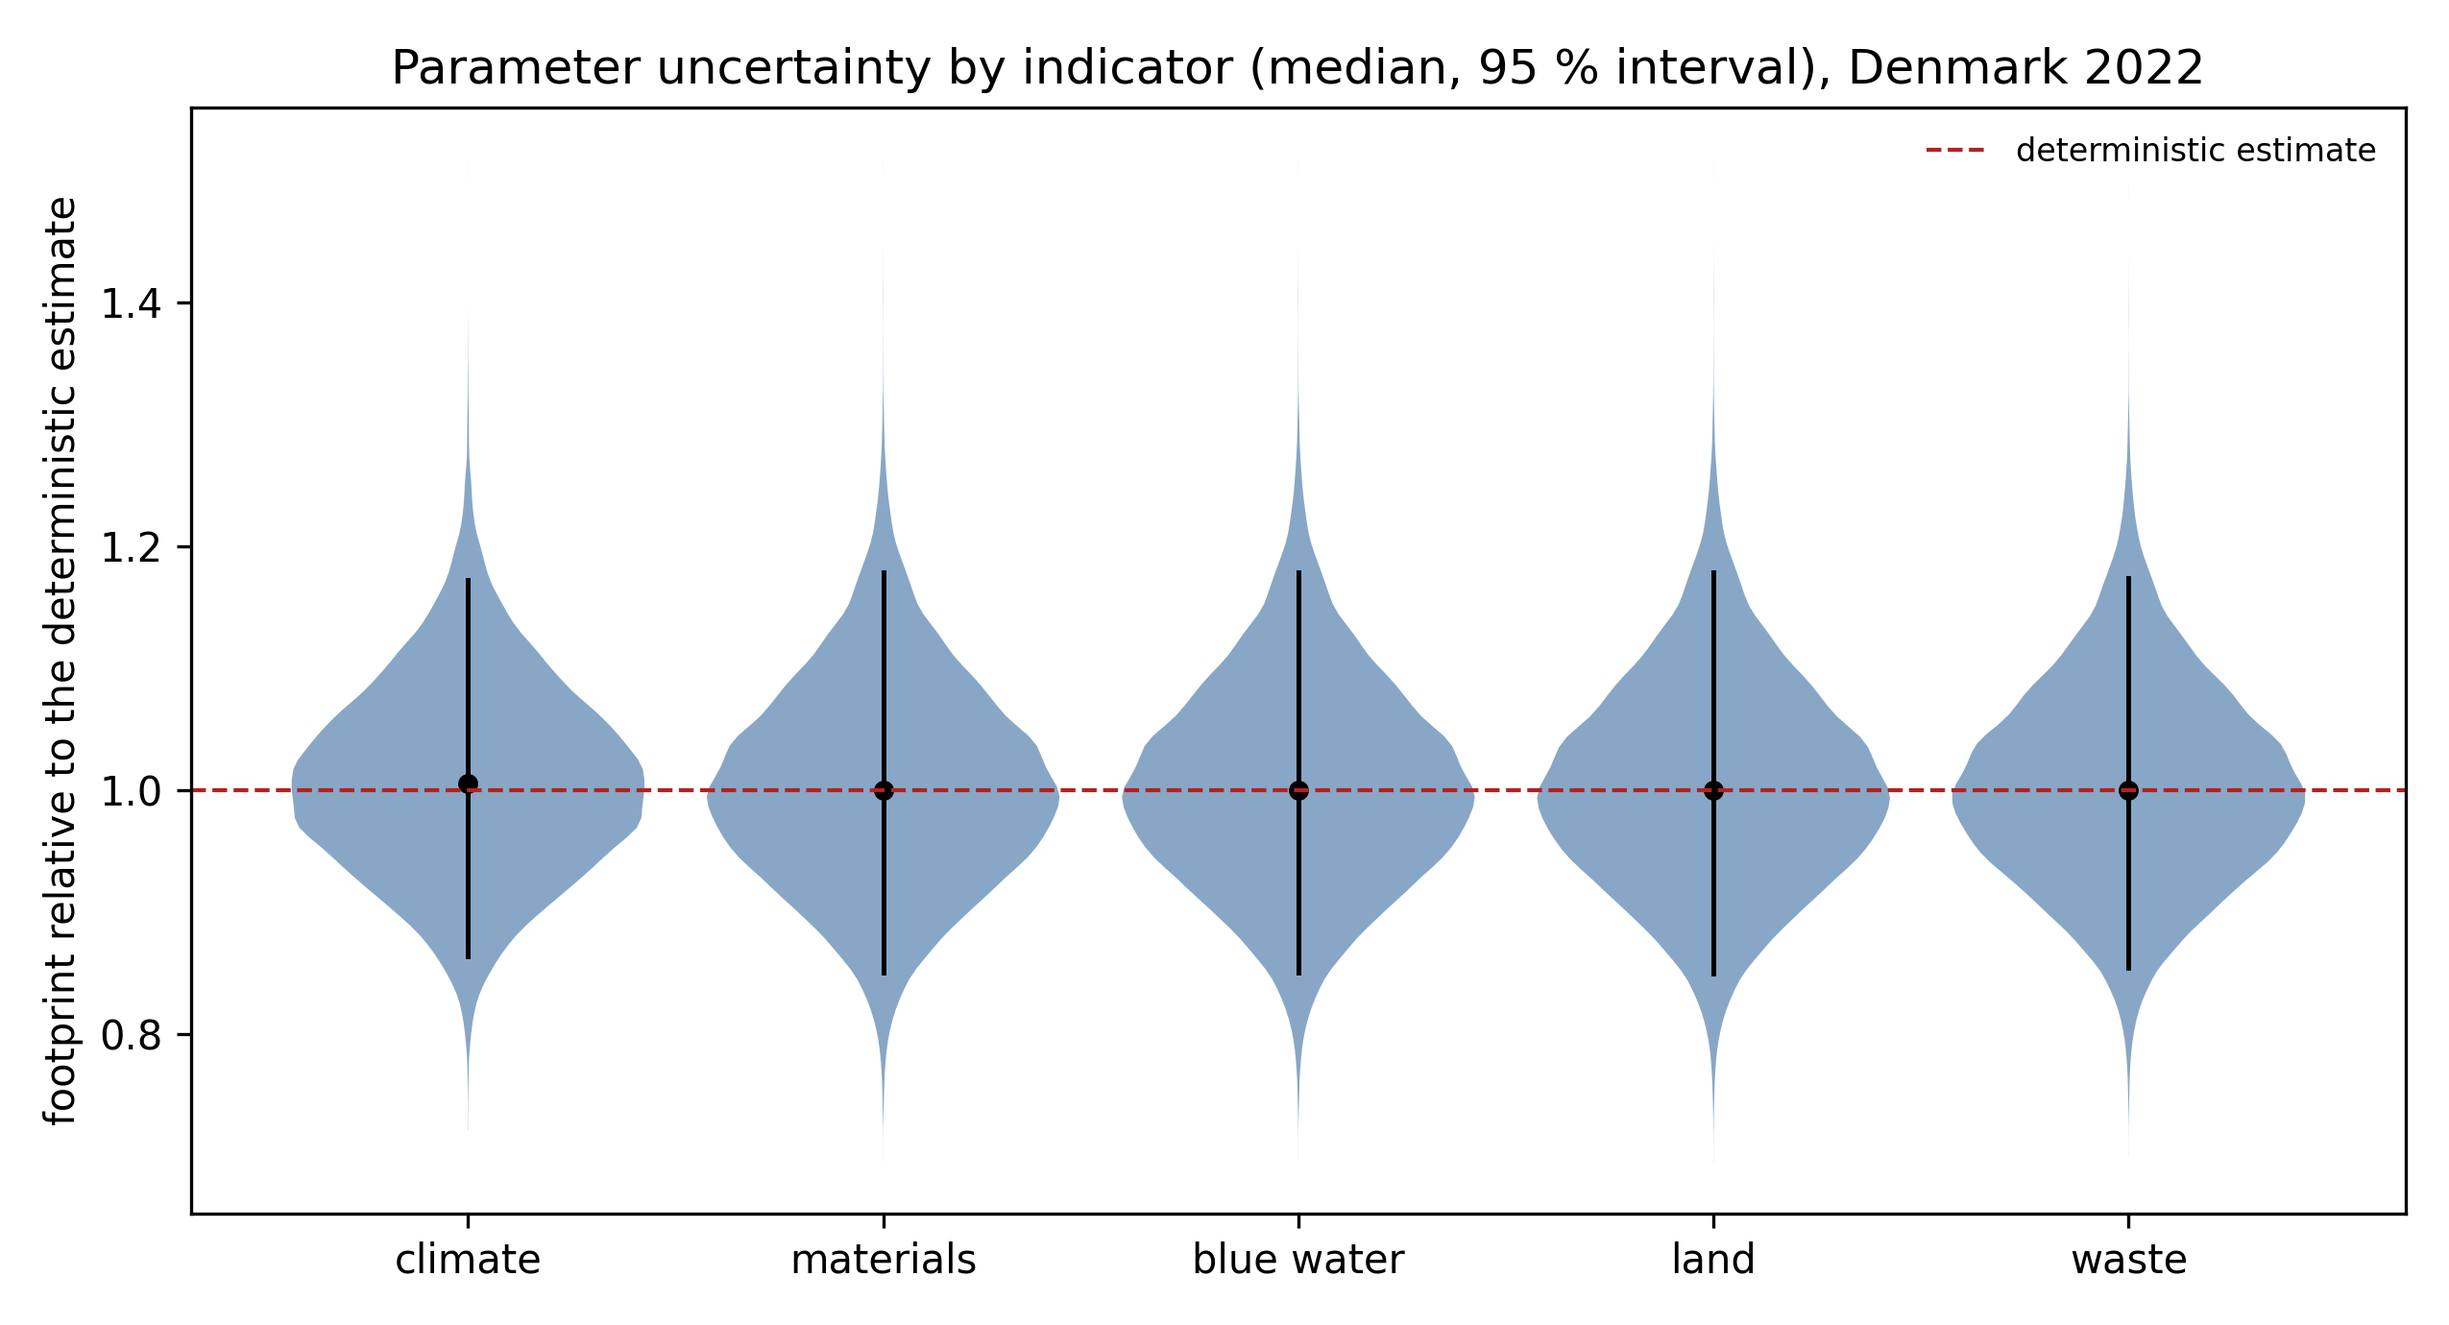
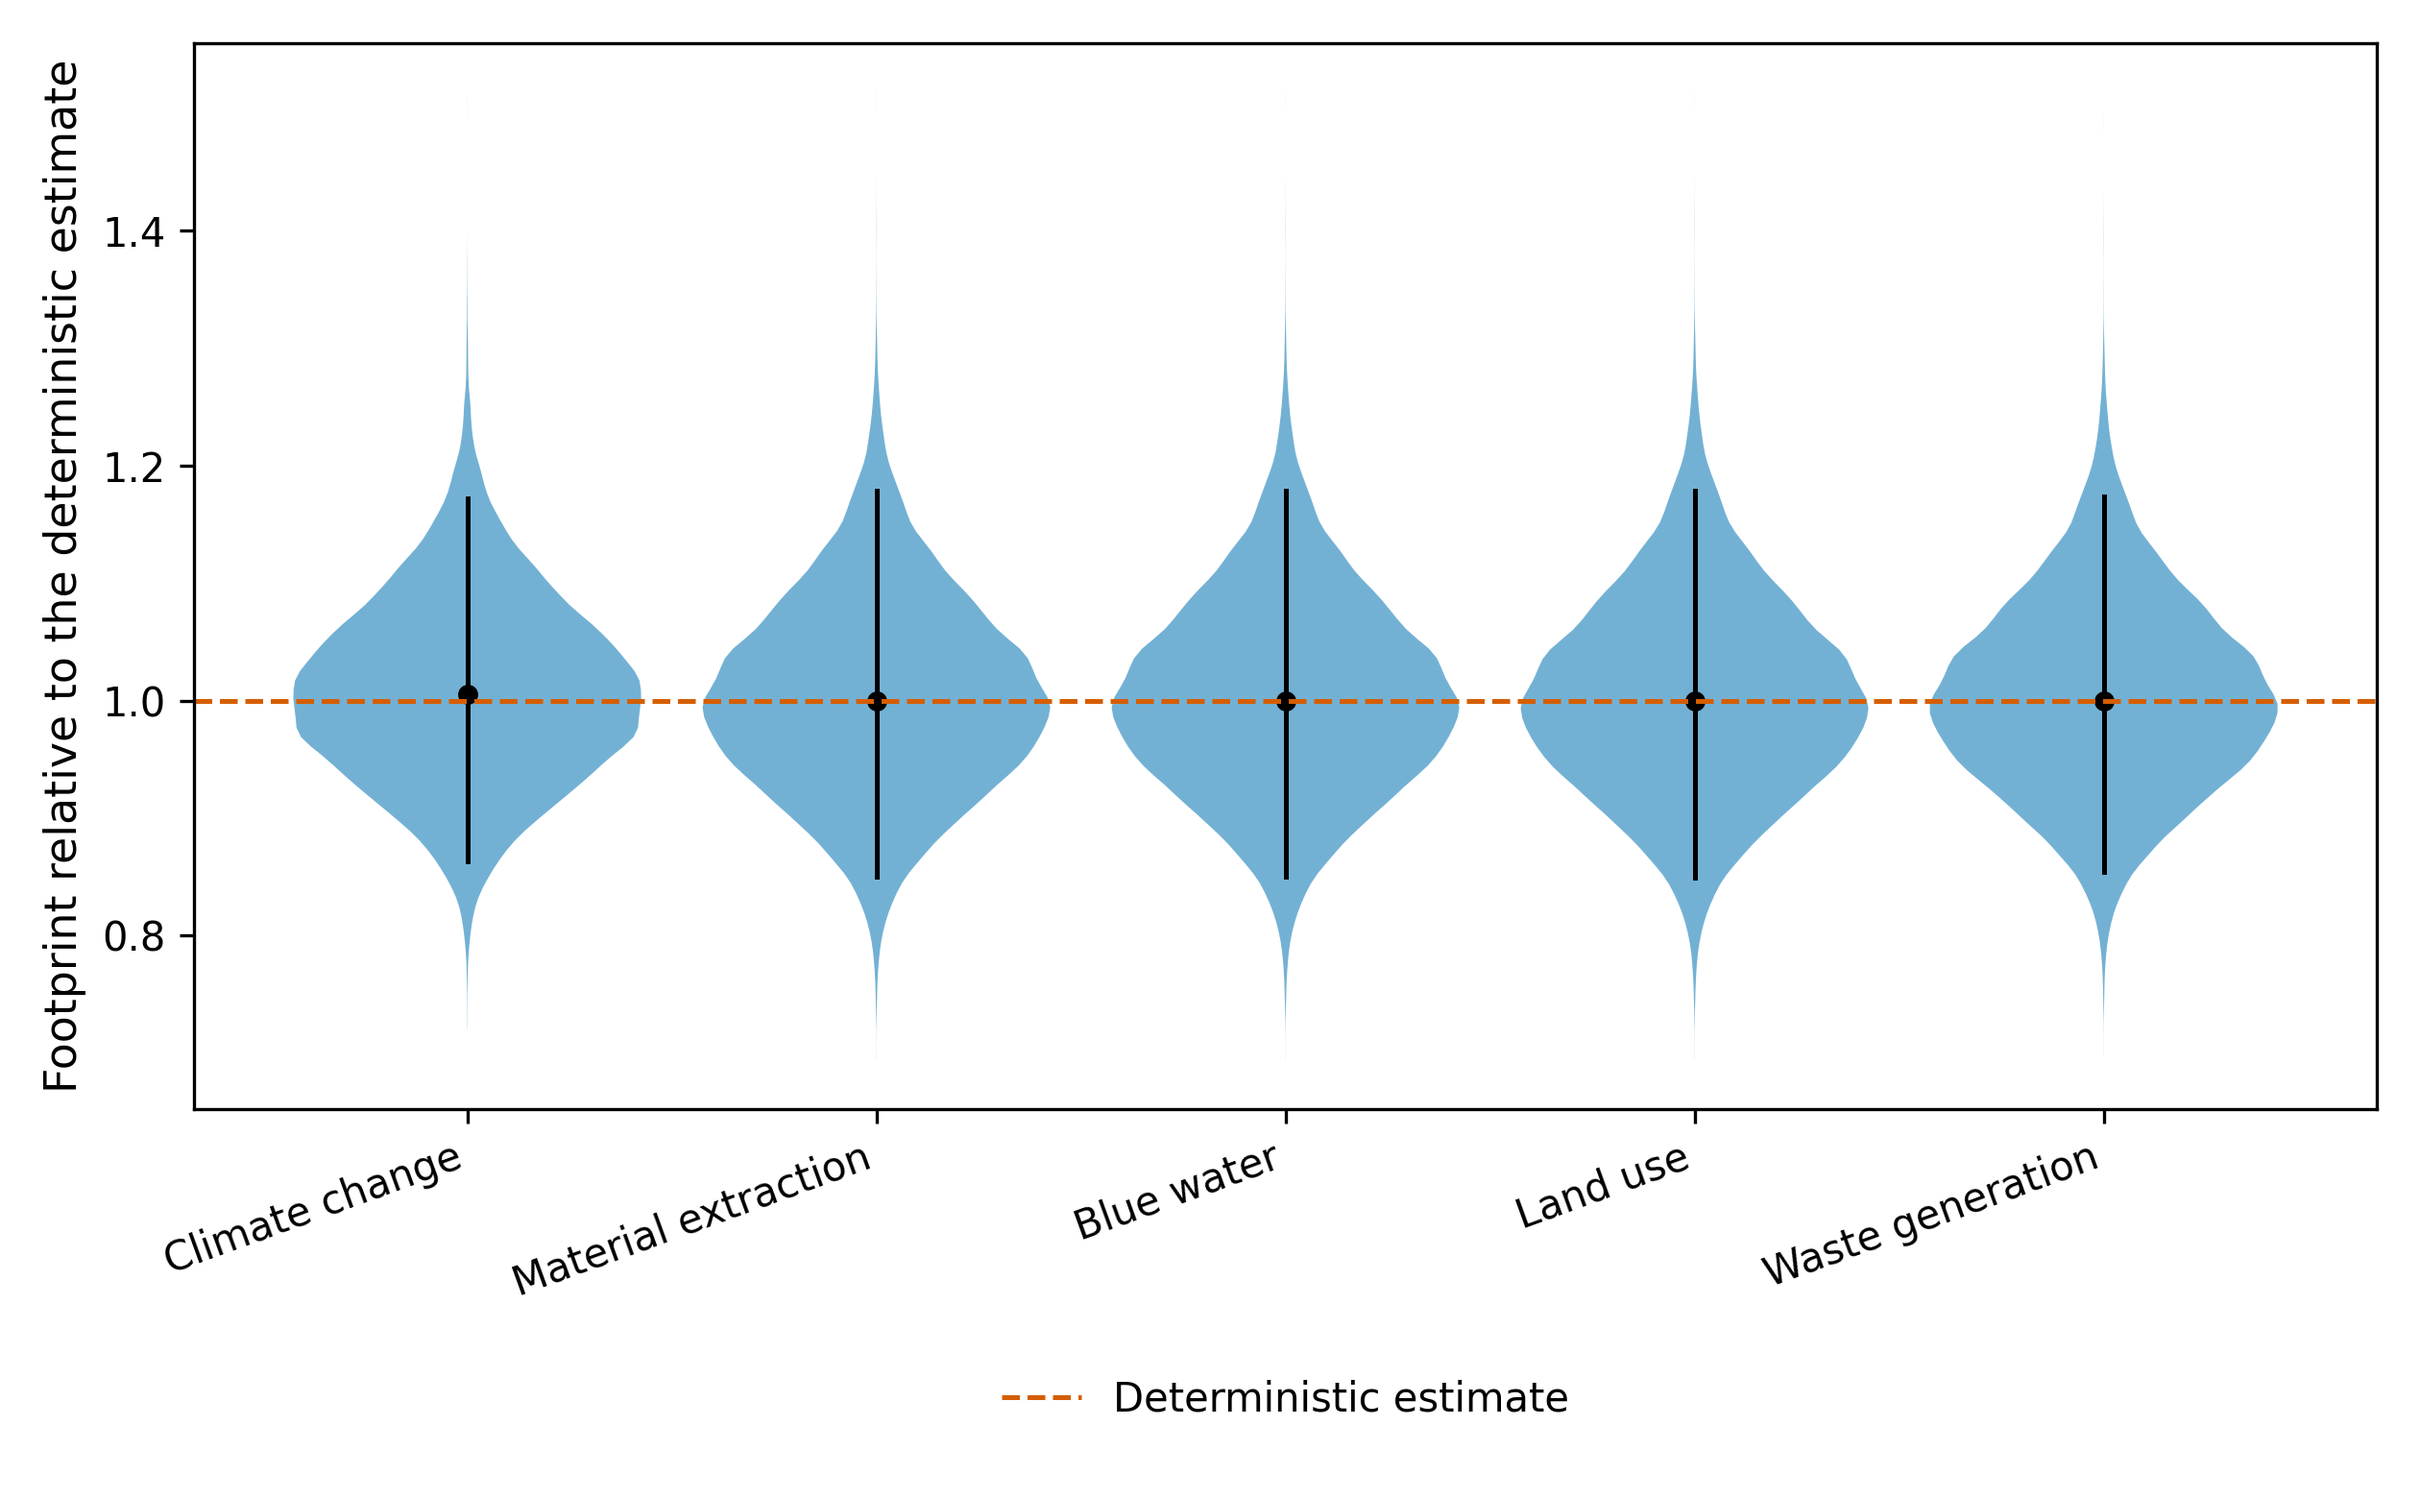
Figure QA pass against the house rules
Audited all four uncertainty figures and fixed at source:
- removed sheet-level titles baked into the images (filename/manuscript carry them)
- legends moved to the bottom, one/two rows, no longer overlapping the axes
- internal row codes replaced by full names (B_ANAE -> Anaesthetic gases etc.)
- Okabe-Ito colour-vision-safe palette, unique hue per key
- aspect brought into the 1.4-1.8 band (was 2.02 on the variance figure)
- whole numbers, in-bar share labels for segments >= 4 %, CO2 subscript glyph
- font ranking enforced: panel titles > legend > ticks, 9pt floor
- tornado: percentile-based swings and the reviewers' verbatim +/-20/50 % swings
  are now separate blocks with a divider, not interleaved

diff --git a/src/analysis/uncertainty_figures.py b/src/analysis/uncertainty_figures.py
@@ -23,9 +23,20 @@ from paths import OUTPUT_DIR
 from analysis.uncertainty_2025 import (INDICATORS, PARAMS, load_groups, run_mc,
                                        sobol_first_order, ranking_probabilities)
 
-SHORT = {"Global warming (ktCO2eq)": "climate", "Material extraction (kt)": "materials",
-         "Blue water consumption (Mm3)": "blue water", "Land use (km2)": "land",
-         "Waste generation (kt)": "waste"}
+SHORT = {"Global warming (ktCO2eq)": "Climate change", "Material extraction (kt)": "Material extraction",
+         "Blue water consumption (Mm3)": "Blue water", "Land use (km2)": "Land use",
+         "Waste generation (kt)": "Waste generation"}
+
+# Okabe-Ito, colour-vision-deficiency safe; unique hue per key
+OKABE_ITO = ["#0072B2", "#E69F00", "#009E73", "#CC79A7", "#56B4E9", "#D55E00", "#F0E442"]
+# full names, never the internal row codes
+PARAM_LABEL = {"mrio": "MRIO parameters", "B_HEAL": "Direct operational",
+               "B_ANAE": "Anaesthetic gases", "B_PMDI": "pMDI propellants",
+               "B_COMM": "Employee commuting", "B_VISI": "Patient and visitor travel"}
+# font ranking: panel titles > legend > ticks/labels
+plt.rcParams.update({"axes.titlesize": 13, "legend.fontsize": 10,
+                     "axes.labelsize": 11, "xtick.labelsize": 10,
+                     "ytick.labelsize": 10, "figure.dpi": 300})
 
 
 def main():
@@ -36,21 +47,20 @@ def main():
     _, G_B, tot_B, _ = run_mc(mrio, parts, "B", n=50_000)
 
     # 1. normalised distributions
-    fig, ax = plt.subplots(figsize=(8.5, 4.6))
+    fig, ax = plt.subplots(figsize=(8.4, 5.2))
     data = [tot[i] / float(total[i]) for i in INDICATORS]
     vp = ax.violinplot(data, showextrema=False, widths=0.85)
     for b in vp["bodies"]:
-        b.set_facecolor("#4878a8"); b.set_alpha(0.65)
+        b.set_facecolor(OKABE_ITO[0]); b.set_alpha(0.55)
     for k, i in enumerate(INDICATORS, start=1):
         q = np.percentile(tot[i] / float(total[i]), [2.5, 50, 97.5])
         ax.plot([k, k], [q[0], q[2]], color="k", lw=1.2)
         ax.plot(k, q[1], "o", color="k", ms=4)
-    ax.axhline(1.0, color="firebrick", lw=1, ls="--", label="deterministic estimate")
+    ax.axhline(1.0, color=OKABE_ITO[5], lw=1.2, ls="--", label="Deterministic estimate")
     ax.set_xticks(range(1, len(INDICATORS) + 1))
-    ax.set_xticklabels([SHORT[i] for i in INDICATORS])
-    ax.set_ylabel("footprint relative to the deterministic estimate")
-    ax.set_title("Parameter uncertainty by indicator (median, 95 % interval), Denmark 2022")
-    ax.legend(frameon=False, fontsize=8)
+    ax.set_xticklabels([SHORT[i] for i in INDICATORS], rotation=20, ha="right")
+    ax.set_ylabel("Footprint relative to the deterministic estimate")
+    ax.legend(frameon=False, loc="upper center", bbox_to_anchor=(0.5, -0.22), ncol=2)
     fig.tight_layout(); fig.savefig(os.path.join(fig_dir, "uncertainty_distributions.png"), dpi=300)
     plt.close(fig)
 
@@ -58,14 +68,25 @@ def main():
     sob = sobol_first_order(mrio, parts)
     piv = sob.pivot(index="indicator", columns="parameter", values="variance_share_pct")
     piv = piv.loc[INDICATORS]
-    fig, ax = plt.subplots(figsize=(8.5, 4.2))
+    order = ["mrio", "B_COMM", "B_VISI", "B_HEAL", "B_ANAE", "B_PMDI"]
+    piv = piv[[c for c in order if c in piv.columns]]
+    fig, ax = plt.subplots(figsize=(8.4, 5.4))
+    labels = [SHORT[i] for i in piv.index]
     bottom = np.zeros(len(piv))
-    for col in piv.columns:
-        ax.barh([SHORT[i] for i in piv.index], piv[col].values, left=bottom, label=col)
-        bottom += piv[col].values
-    ax.set_xlabel("share of output variance (%)")
-    ax.set_title("First-order variance contributions (exact for this additive model)")
-    ax.legend(frameon=False, fontsize=8, ncol=3)
+    for k, col in enumerate(piv.columns):
+        vals = piv[col].values
+        ax.barh(labels, vals, left=bottom, label=PARAM_LABEL[col],
+                color=OKABE_ITO[k % len(OKABE_ITO)], height=0.62)
+        for yi, (v, b) in enumerate(zip(vals, bottom)):
+            if v >= 4:                      # skip tiny segments
+                ax.text(b + v / 2, yi, f"{v:.0f}", ha="center", va="center",
+                        fontsize=9, color="white" if k == 0 else "black")
+        bottom += vals
+    ax.set_xlabel("Share of output variance (%)")
+    ax.set_xlim(0, 100)
+    ax.set_xticks([0, 20, 40, 60, 80, 100])
+    ax.invert_yaxis()
+    ax.legend(frameon=False, loc="upper center", bbox_to_anchor=(0.5, -0.13), ncol=3)
     fig.tight_layout(); fig.savefig(os.path.join(fig_dir, "uncertainty_variance_shares.png"), dpi=300)
     plt.close(fig)
 
@@ -82,25 +103,39 @@ def main():
         p = PARAMS[key[name]]
         sig = (np.log(p["gsd"]) if p.get("gsd") else np.sqrt(np.log(1 + p["cv"] ** 2)))
         lo, hi = np.exp(-1.96 * sig), np.exp(1.96 * sig)
-        rows.append((f"{name} (95 %)", a * (lo - 1), a * (hi - 1)))
+        rows.append((f"{PARAM_LABEL[name]} (95 %)", a * (lo - 1), a * (hi - 1)))
     for name in ("B_ANAE", "B_PMDI", "B_COMM", "B_VISI"):
         for pct in (0.2, 0.5):
-            rows.append((f"{name} +/-{int(pct * 100)} %", -comp[name] * pct, comp[name] * pct))
-    rows.sort(key=lambda r: max(abs(r[1]), abs(r[2])))
-    fig, ax = plt.subplots(figsize=(8.5, 5.2))
+            rows.append((f"{PARAM_LABEL[name]} ±{int(pct * 100)} %",
+                         -comp[name] * pct, comp[name] * pct))
+    # two separate blocks: percentile-based swings and the reviewers' verbatim
+    # +/-20 % and +/-50 % swings are different quantities and must not interleave
+    pct_rows = sorted([r for r in rows if "(95 %)" in r[0]],
+                      key=lambda r: max(abs(r[1]), abs(r[2])))
+    fix_rows = sorted([r for r in rows if "(95 %)" not in r[0]],
+                      key=lambda r: max(abs(r[1]), abs(r[2])))
+    rows = fix_rows + pct_rows
+    fig, ax = plt.subplots(figsize=(8.4, 5.6))
     ypos = np.arange(len(rows))
-    ax.barh(ypos, [r[2] for r in rows], color="#c0504d", label="high")
-    ax.barh(ypos, [r[1] for r in rows], color="#4878a8", label="low")
-    ax.set_yticks(ypos); ax.set_yticklabels([r[0] for r in rows], fontsize=8)
+    ax.barh(ypos, [r[2] for r in rows], color=OKABE_ITO[5], label="Upper bound")
+    ax.barh(ypos, [r[1] for r in rows], color=OKABE_ITO[0], label="Lower bound")
+    ax.set_yticks(ypos); ax.set_yticklabels([r[0] for r in rows])
     ax.axvline(0, color="k", lw=0.8)
-    ax.set_xlabel(f"change in the climate footprint (kt CO2eq); central estimate {base:,.0f}")
-    ax.set_title("One-at-a-time sensitivity, climate change")
-    ax.legend(frameon=False, fontsize=8)
+    ax.set_xlabel(f"Change in the climate footprint (kt CO\u2082eq), "
+                  f"central estimate {base:,.0f}")
+    ax.axhline(len(fix_rows) - 0.5, color="0.4", lw=0.8, ls=":")
+    ax.text(0.995, (len(fix_rows) + len(pct_rows) / 2) / len(rows), "parameter 95 % range",
+            transform=ax.transAxes, ha="right", va="center", fontsize=9, color="0.35",
+            rotation=90)
+    ax.text(0.995, (len(fix_rows) / 2) / len(rows), "prescribed swings",
+            transform=ax.transAxes, ha="right", va="center", fontsize=9, color="0.35",
+            rotation=90)
+    ax.legend(frameon=False, loc="upper center", bbox_to_anchor=(0.5, -0.12), ncol=2)
     fig.tight_layout(); fig.savefig(os.path.join(fig_dir, "uncertainty_tornado_climate.png"), dpi=300)
     plt.close(fig)
 
     # 4. ranking probabilities (climate), both pharma scenarios
-    fig, axes = plt.subplots(1, 2, figsize=(11, 4.6), sharey=True)
+    fig, axes = plt.subplots(1, 2, figsize=(10.5, 6.0), sharey=True)
     for ax, (lab, Gx) in zip(axes, [("A: pharma as Chemicals nec", G),
                                     ("B: pharma-specific intensity", G_B)]):
         rp = ranking_probabilities(groups, {ind: Gx[ind]}, top=3)
@@ -108,14 +143,13 @@ def main():
         rp = rp.sort_values("P_rank_1", ascending=True)
         im = ax.imshow(rp.values, aspect="auto", cmap="Blues", vmin=0, vmax=1)
         ax.set_xticks(range(3)); ax.set_xticklabels(["rank 1", "rank 2", "rank 3"])
-        ax.set_yticks(range(len(rp))); ax.set_yticklabels(rp.index, fontsize=8)
-        ax.set_title(lab, fontsize=9)
+        ax.set_yticks(range(len(rp))); ax.set_yticklabels(rp.index)
+        ax.set_title(lab)
         for r in range(rp.shape[0]):
             for c in range(3):
                 if rp.values[r, c] > 0.01:
                     ax.text(c, r, f"{rp.values[r, c]:.2f}", ha="center", va="center",
-                            fontsize=7, color="k" if rp.values[r, c] < 0.6 else "w")
-    fig.suptitle("Probability that a contribution group holds each rank (climate change)", fontsize=10)
+                            fontsize=9, color="k" if rp.values[r, c] < 0.55 else "w")
     fig.tight_layout(); fig.savefig(os.path.join(fig_dir, "uncertainty_ranking_probabilities.png"), dpi=300)
     plt.close(fig)
     print("figures written to", fig_dir)
